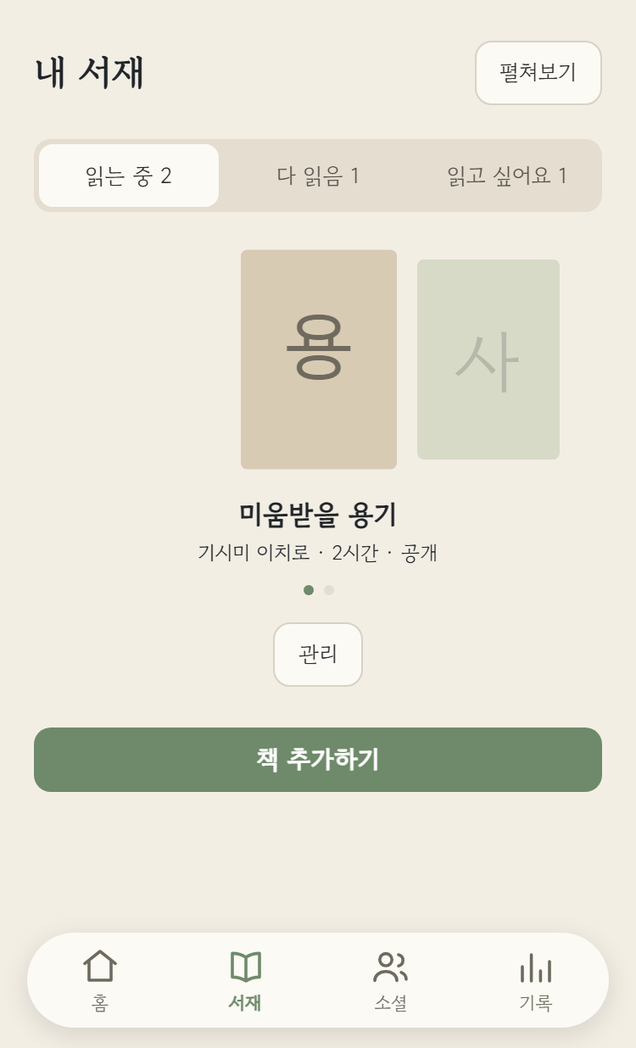
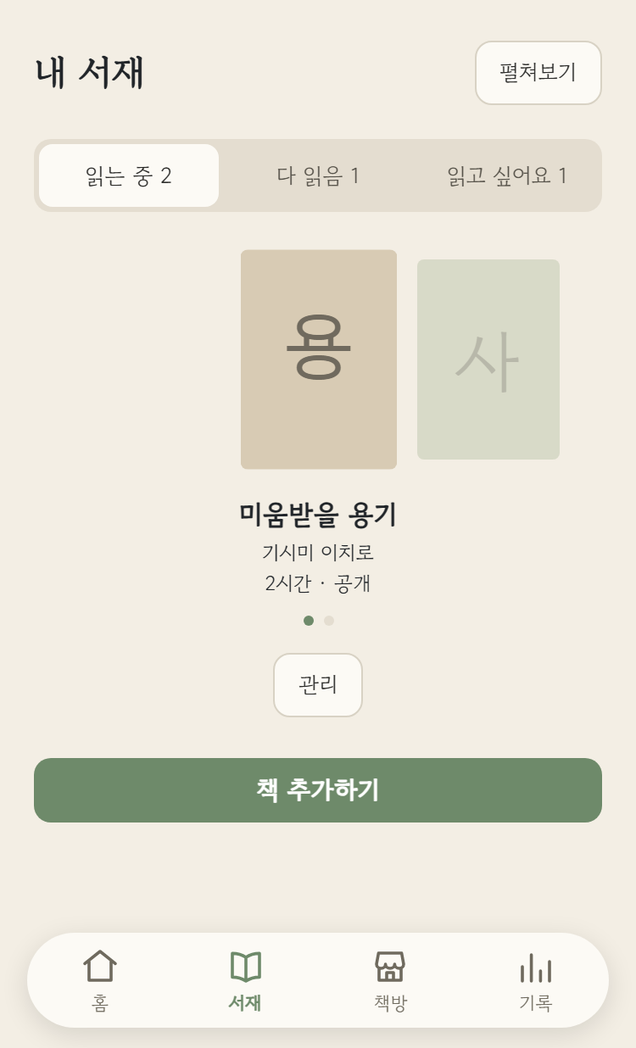
chore(미니앱): 스토어 스크린샷 6장을 다시 찍고 재촬영기를 저장소에 박는다 (#821)
화요일 심사 제출을 앞두고 점검하다 6장 전부가 낡아 있는 것을 발견했다.

① 하단 탭바가 「소셜」(사람 아이콘)로 찍혀 있는데 지금은 「책방」(가게 아이콘)이다.
   탭바는 모든 컷에 나오므로 한 장도 예외가 없었다.
② 02-feed 의 소식에 여백 줄이 빠져 있었다.
③ 01-home 과 가로 배너에 지금은 없는 「목표 30분 ›」 칩이 박혀 있었다
   (2026-08-14 홈 개편 때 「남은시간 ⓘ」 상자로 흡수된 것).

옛 그림이 콘솔에 남으면 「실제 앱과 다르다」가 그대로 반려 사유가 된다.

목 모드를 Playwright로 375×618@2 촬영 → 636×1048 축소(세로 5장), 가로 배너
(1504×741)는 세로 컷 3장을 얹어 합성. 규격은 6장 전부 sharp로 실측 확인했다 —
콘솔은 비율이 아니라 정확한 픽셀을 요구해 안 맞으면 업로드 자체가 거부된다.

⚠ 01-home 은 최상단이 아니라 80px 내려 찍는다. 홈 개편으로 「프로필·설정」 줄이
한 칸을 먹어, 그대로 찍으면 주 CTA(「측정 시작」)가 탭바 뒤로 거의 다 숨는다.

⚠ 재촬영기(shoot.mjs)를 저장소에 넣었다. 2026-08-14 촬영 땐 스크래치패드에 뒀다가
세션과 함께 날려서 이번에 처음부터 다시 짰다 — 화면이 바뀔 때마다 반복될 비용이라
없앤다. 의존성은 frontend/node_modules 의 playwright·sharp 를 빌려 써서 미니앱에
촬영용 의존성은 0이다. README 에 절차와 「UI를 바꿨으면 shoot.mjs 를 한 번 돌린다」를
함께 박았다.

Session-Model: claude-opus-5

Changed region(s): [[0.0299, 0.5191, 0.956, 0.7939], [0.5676, 0.8855, 0.6572, 0.9771], [0.6274, 0.5191, 0.6871, 0.5496]]

diff --git a/claude-docs/changelog.md b/claude-docs/changelog.md
@@ -691,3 +691,4 @@
 | 2026-08-16 | **feat(여백): 「스토리」를 「여백」으로 개명하고 24시간 만료를 폐지한다** — 사용자가 방향을 되짚었다: 원래 의도는 "읽다 인상 깊은 문장·생각을 남기는 자리"였는데, 인스타를 베끼며 딸려 온 **24h 휘발이 그 의도와 정면으로 어긋났다**(남기라 해 놓고 하루 만에 지우는 셈 — 기존 사용자에게 괴리). 어휘 후보 7종(밑줄·책갈피·문장·한 줄·여백·감상·필사)을 트레이드오프와 함께 제시해 **여백**으로 결정(책 여백에 끄적이는 은유라 문장과 생각을 모두 담고, 책방·서재·마을과 층위가 안 겹친다). ⚠ **문구만 갈면 "여백이 24시간 뒤 사라지는" 괴리가 이름만 바꾼 채 남는다** — 그래서 만료 필터 4곳(피드 쿼리·내 목록·개수·`canView`)을 걷어냈다. **만료를 없애자 20장 상한이 곧 영구 잠금이 된다**: 그 값은 "24h 창 안의 개수"였고 그대로 두면 21번째부터 영영 못 쓴다 → 작성 게이트를 **삭제**하고(도배 방어는 레이트리밋 시간당 10이 그대로 맡는다) 같은 숫자를 **표시 상한**(`MAX_VISIBLE_STORIES`)으로 옮겼다 — 저장은 영구, 스트립·뷰어엔 최근 20장(진행바가 카드 수만큼 세그먼트를 그려 무제한 노출은 UI가 못 버틴다). 그래서 피드 쿼리 정렬이 **작성자순 → 전체 최신순 + `Pageable` 상한(200)**으로 바뀌었다(작성자순으로 정렬한 채 자르면 "id 작은 작성자만" 남기는 엉뚱한 절단이 된다) — 작성자 묶기·재생순(asc) 복원은 서비스가 맡고, 열람 배치 조회도 스캔한 200장이 아니라 **실제로 실릴 카드**만 대상으로 한다. 동시각 tie는 `id`로 갈라 상한 경계가 호출마다 흔들리지 않게 했다. 코드·API·테이블은 `story`로 남긴다(사용자가 보지 않는 값을 개명하면 마이그레이션만 딸려 온다). 사용자 대면 문구 9곳 교체(링 캡션 「내 여백」·「여백 적기」, 작성 화면 제목·placeholder, 에러 2종, aria-label 2종, 탈퇴 안내). ⚠ **상한 20장을 넘은 옛 여백은 DB에 남지만 볼 길이 없다** — 링 → 전체화면 뷰어 구조의 한계이고, 링 UI를 목록으로 바꾸는 후속에서 풀린다(사용자와 합의해 이번 범위에서 제외). TDD RED 28건(전부 "새 계약이 아직 없어서") → GREEN(서버 story 전 스위트 + 미니앱 583건·tsc 깨끗), 목 모드 실 브라우저로 스트립·작성·뷰어 3화면 확인(콘솔 에러 0). ⚠ **일괄 치환이 「히스토리」를 「히여백」으로 깨뜨렸다** — 「스토리」가 「히스토리」의 부분문자열이라, 3곳을 되돌리고 이후 편집은 개별 Edit로 전환했다. |
 | 2026-08-16 | **feat(여백): 인스타 UI를 폐기하고 여백을 책에 귀속시킨다 — 발광 + 홈 소식 + 웹 이식** — 개명(직전 작업)만으로는 괴리가 안 풀렸다: 이름은 「여백」인데 화면은 여전히 **사람 단위 링 → 전체화면 스토리 뷰어**라 인스타 문법 그대로였다. 사용자가 "생각은 원래 책마다 갈린다"며 방향을 뒤집었고, 시안 3장(책 귀속 · 표지 발광 · 홈 소식)을 합의한 뒤 설계를 `designer`에 위임해 구현했다. **어휘가 한 겹 더 바뀐다** — 「여백」은 이제 *글 한 장*이 아니라 **책에 딸린 자리**이고 거기 쌓이는 게 **「글」**이다(「여백 적기」→「여백에 글 남기기」, 「여백 3」→「여백에 남긴 글 3」). **폐기**: 링 스트립·전체화면 뷰어·진행바·좌우 넘김·열람 기록(`story_view` 드롭)·표시 상한 20장 — 상한은 진행바가 카드 수만큼 칸을 나눠 생긴 제약이라 **목록이 되면 존재 이유가 사라진다**(직전 작업이 남긴 ⏸ 사각 해소). **`story.book_id` 필수화(V71)** ⚠ 연쇄로 발견: 책 삭제 시 글의 책 연결만 풀던 `unlinkBook`이 NOT NULL과 정면 충돌 → **글도 함께 삭제**로 바꿨다(자리가 사라지면 거기 쌓인 글도 사라진다). 운영 실측을 게이트로 두고 진행 — `book_id IS NULL` 2건 전량 삭제를 사용자 승인 후 반영(설계가 "사용자 콘텐츠 삭제는 통보 없이 밀지 않는다"로 못 박아 둔 자리). **24시간이 콘텐츠 수명에서 표시 이펙트로 이동** — 최근 24h 안에 새 글이 달린 책은 표지가 맥동+점 배지, 지나면 이펙트만 꺼지고 글은 남는다. 서버는 원시 사실(`BookSummary.lastStoryAt`)만 주고 24h 판정은 클라 순수 함수가 한다(계측 가능 + 시간을 이중으로 갖지 않게). **발견 경로 = 홈 소식**에 `STORY` 타입 추가, ⚠ **사람+책 단위로 묶는다** — 안 묶으면 한 사람이 하루 4장 적을 때 미리보기 3줄을 통째로 먹어 완독·읽기시작 소식이 밀려난다. 발췌 1줄 동반(없으면 누를 이유가 없다) + 그 줄만 눌러 점프. **웹도 같이 이식**(사용자 결정 — 설계 초안의 "웹 은퇴"는 기각) 단 문법은 통일하지 않는다: 웹 책방은 격자가 아니라 구매 버튼·드롭다운이 든 **리스트 행**이라 행 전체 클릭이 충돌 → 표지 발광 + 「여백」 손잡이 → 오버레이 패널. ⚠ 옛 뷰어의 **타인 글 신고 배선을 패널로 이사**시켰다(그냥 지웠으면 안전장치가 조용히 사라진다). ⏸ 웹엔 소식 피드 자체가 없어(실측) 남의 글 발견은 미니앱 전용으로 남는다. TDD RED→GREEN 4단계(서버·미니앱·웹) — 서버 전 스위트 / 미니앱 591건 / 웹 406건 / `tsc` 깨끗 / 11개 섬 빌드, 번들 diff는 설계가 지목한 dashboard·profile 두 섬뿐. ⚠ **구현 중 공허하게 통과하던 테스트 1건을 잡았다** — "남의 글이 내 피드에 안 뜬다"가 픽스처에서 아무도 그 「남」을 팔로우하지 않아 팔로우 게이트를 지워도 통과했다(진짜 누출 형태는 제3자가 그를 팔로우할 때). ⚠ **비공개 책 누출 테스트는 픽스처 자체가 불가능**했다(도메인이 애초에 거부) — 실제 누출 창은 「글을 남긴 뒤 비공개 전환」뿐이라 그렇게 고쳤고 그게 쿼리의 재검사가 지키는 지점이다. 목 모드·로컬 `bootRun` 실 브라우저로 양쪽 전 경로 확인(콘솔 에러 0, V71이 로컬 MySQL에 실제 적용). ⚠ **검증 중 목 픽스처의 자기모순을 잡아 고쳤다** — 소식은 「글 3개」인데 그 책 여백을 열면 2장이라, 실서버에선 나올 수 없는 조합이 검증자를 헷갈리게 했다. |
 | 2026-08-16 | **fix(미니앱): 맨 버튼의 글자색을 상속으로 되돌린다 — iOS에서 책 제목이 파랗게 떴다** — 사용자가 성능 회귀 제보와 함께 보낸 **실기기 영상**을 프레임으로 분해해 분석하다 따로 발견했다. 책방 3열 격자의 책 제목이 잉크가 아니라 **파랑**(픽셀 실측 `#6590AE`)이었다. 원인은 격자 칸이 `<button>`인데 `color`를 안 준 것 — **WebKit UA 기본 버튼 글자색이 iOS에서 시스템 블루**라 그 안의 TDS `Text`가 그대로 물려받는다. Blink는 같은 자리를 검정으로 그려서 **목 모드 검증으로는 원리상 안 잡힌다**(친구 찾기 결과의 닉네임 줄도 같은 형태였다). 호출부마다 `color`를 적어 막지 않고 `global.css`에 `button { color: inherit }` 한 줄로 뿌리에서 끊었다 — 맨 버튼은 격자 칸·캐러셀 칸·목록 줄로 계속 늘어나 호출부 규약으로는 못 지킨다. 선택자를 **딱 `button`(0-0-1)**으로 둬야 TDS Button(자기 클래스로 색을 잡는다)이 안 밀리고, 목 모드 computed style로 primary(흰 글자)·weak(세이지 글자) 무변경 + 격자 제목만 잉크로 전환됨을 확인했다. TDD RED 1건 → GREEN 592건. ⚠ **T-053·T-054·T-176과 같은 뿌리의 4회차**(검증 환경이 실환경보다 관대하면 그 클래스는 가짜 green으로 통과한다) — 앞선 승격이 「헤드리스 vs 실 브라우저」 축을 닫았는데 **「데스크톱 크롬 vs 실기기」** 축에서 두 번 샜다(성능·합성 / 엔진별 UA 기본값). T-177로 기록하고 트래커 갱신. ⚠ 이 영상의 본래 제보(앱 급격히 느려짐·백지 화면)는 **새 버그가 아니라 맥동 제거 번들이 아직 출시 전이라 옛 번들이 돌던 것**이다 — 영상 시각(15:45)이 핫픽스 업로드(~15:38) 직후였고, 프레임 분석 결과 「여백 글을 남기기 전엔 정상 → 남긴 직후부터 본문 레이어 백지 3회·표지 실종 15초」로 T-176 진단과 정확히 일치했다(백지 중에도 고정 탭바는 계속 그려져 DOM은 살아 있었다 = 페인트만 밀린 지문). |
+| 2026-08-16 | **chore(미니앱): 스토어 스크린샷 6장을 다시 찍고 재촬영기를 저장소에 박는다** — 화요일 심사 제출을 앞두고 `miniapp/screenshots/`를 점검하다 **6장 전부가 낡아 있는 것**을 발견했다. ① 하단 탭바가 「소셜」(사람 아이콘)로 찍혀 있는데 지금은 **「책방」(가게 아이콘)**이다 — 탭바는 모든 컷에 나오므로 **한 장도 예외가 없었다**. ② `02-feed`의 소식에 여백 줄이 빠져 있었다. ③ `01-home`·가로 배너에 지금은 없는 **「목표 30분 ›」 칩**이 박혀 있었다(2026-08-14 홈 개편 때 「남은시간 ⓘ」 상자로 흡수된 것). 옛 그림이 콘솔에 남으면 「실제 앱과 다르다」가 그대로 반려 사유다. 목 모드(`dev:mock`)를 Playwright로 375×618@2 촬영 → 636×1048 축소(세로 5장), 가로 배너(1504×741)는 세로 컷 3장을 얹어 합성. ⚠ **`01-home`은 최상단이 아니라 80px 내려 찍는다** — 홈 개편으로 「프로필·설정」 줄이 한 칸을 먹어 그대로 찍으면 주 CTA(「측정 시작」)가 탭바 뒤로 거의 다 숨는다. ⚠ **재촬영기(`shoot.mjs`)를 저장소에 넣었다** — 2026-08-14엔 스크래치패드에 뒀다가 세션과 함께 날려서 이번에 처음부터 다시 짰다. 화면이 바뀔 때마다 반복될 비용이라 없앤다(의존성은 `frontend/node_modules`의 playwright·sharp를 빌려 써서 미니앱에 촬영용 의존성 0). 규격은 6장 전부 `sharp`로 실측 확인(636×1048 ×5, 1504×741 ×1) — 콘솔은 비율이 아니라 **정확한 픽셀**을 요구해 안 맞으면 업로드가 거부된다. README에 재촬영 절차와 「UI를 바꿨으면 `shoot.mjs`를 한 번 돌린다」를 함께 박았다. |

diff --git a/miniapp/screenshots/README.md b/miniapp/screenshots/README.md
@@ -17,18 +17,36 @@
 | `05-goal.png` | 목표 — 시/분 휠 피커 | 세로 |
 | `10-landscape.png` | 가로형 배너(앱 화면이 아니라 **세로 컷 3장을 얹은 합성물**) | 가로 |
 
+(`shoot.mjs`는 그림이 아니라 **재촬영기**다 — 아래 「재촬영」 참고.)
+
 세로 규격 높이(1048)로는 홈이 한 화면에 안 들어와 **홈을 두 컷**으로 나눴다 — 위(타이머·캐러셀)와
 아래(피드 박스). 피드는 폴드 아래라 스크롤해 찍는다.
 
-## ⚠ 지금 들어 있는 파일은 목 모드 캡처다 (2026-08-14)
+## 재촬영 — `shoot.mjs` 한 방
+
+```
+npm --prefix miniapp run dev:mock      # 목 서버(포트 5174)를 먼저 띄운다
+node miniapp/screenshots/shoot.mjs     # 6장을 규격대로 덮어쓴다
+```
+
+세로 5장 + 가로 배너를 한 번에 만든다. 의존성은 `frontend/node_modules`의 playwright·sharp를 빌려
+쓴다(스크린샷은 번들과 무관한 콘솔 자산이라 미니앱에 촬영용 의존성을 새로 달지 않는다).
+
+⚠ **이 스크립트가 저장소에 있는 이유**: 2026-08-14 촬영 땐 스크래치패드에 뒀다가 세션과 함께
+날려서, 2026-08-16 재촬영 때 처음부터 다시 짰다. 화면이 바뀔 때마다 반복될 비용이라 여기 박았다.
+
+## ⚠ 지금 들어 있는 파일은 목 모드 캡처다 (2026-08-16 재촬영)
 
 세로 5장은 **브라우저 목 모드**(`npm --prefix miniapp run dev:mock`)를 Playwright로 찍은 것이다
 — 사용자가 "실사와 좀 달라도 된다"고 판단해 그렇게 정했다. 데이터는 `src/dev-mock.ts` 픽스처라
 실계정 화면과 권수·시간·닉네임이 다르다. UI 구성·레이아웃은 실제와 같다.
 
-재촬영 스크립트는 세션 스크래치패드라 휘발됐다(재작성 쉬움 — Playwright + `frontend`의 `sharp`로
-뷰포트 375×618·`deviceScaleFactor: 2`·`colorScheme: 'light'`로 찍어 636×1048로 축소, 하단 탭바
-`button[role="tab"][title="…"]`를 눌러 이동, 촬영 직전 `document.activeElement.blur()`).
+**2026-08-16 재촬영 사유 — 6장 전부가 낡아 있었다**: ① 하단 탭바가 「소셜」(사람 아이콘)로 찍혀
+있었는데 지금은 **「책방」(가게 아이콘)**이다(#812~#813). 탭바는 모든 컷에 나오므로 한 장도 예외가
+없었다. ② `02-feed`의 소식에 **여백 줄**이 빠져 있었다(#816). ③ `01-home`·가로 배너에 지금은 없는
+**「목표 30분 ›」 칩**이 박혀 있었다(2026-08-14 홈 개편으로 「남은시간 ⓘ」 상자로 흡수됨).
+→ 화면을 바꾼 PR에서 이 폴더를 함께 sweep 하지 않으면 이렇게 조용히 밀린다. **UI를 바꿨으면
+`shoot.mjs`를 한 번 돌린다**가 가장 싼 방어다.
 
 ## 촬영 조건
 
